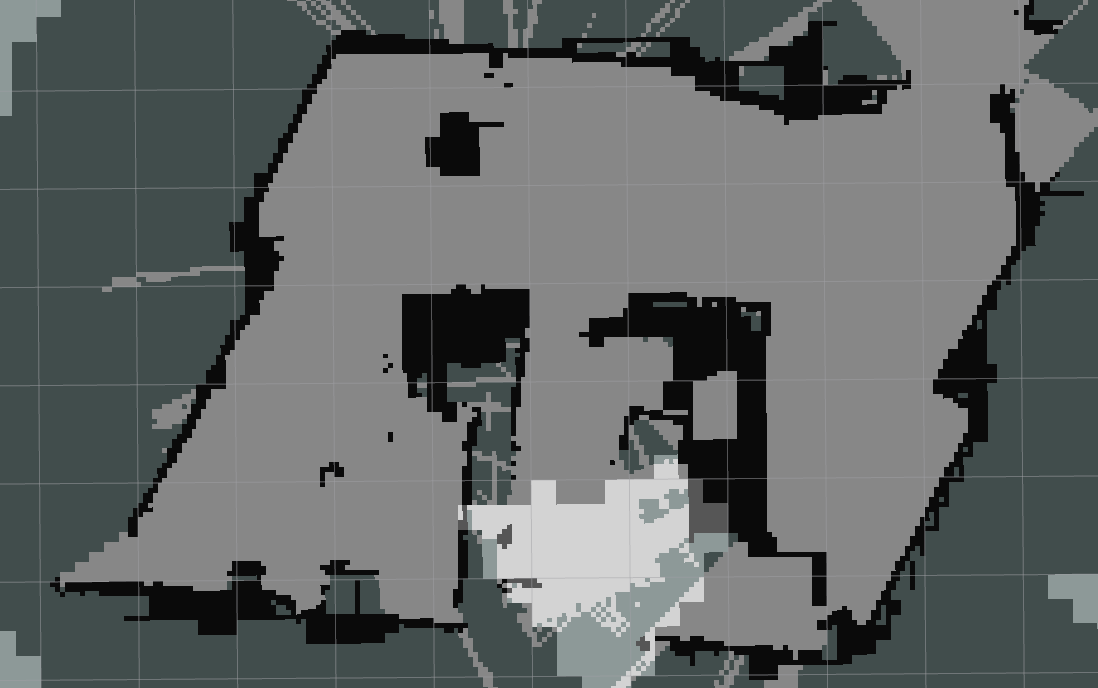
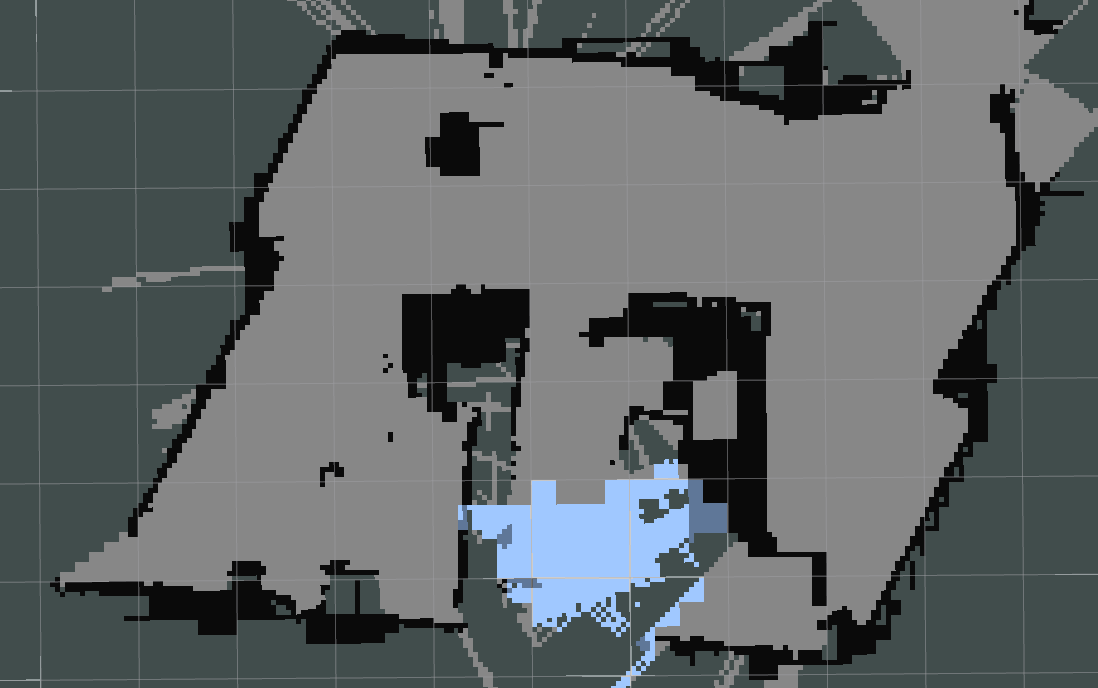
more corrections

diff --git a/Thesis/Concept/Mapping.tex b/Thesis/Concept/Mapping.tex
@@ -40,7 +40,7 @@ This section covers the creation of the Object-Map, which contains information a
 
 For every detectable object class an independent 3D grid map is created. Every cell in this grid map holds the probability of containing an object of the corresponding type given it is occupied. Mapping this conditional probability is beneficial, as the result of the object detection are sample points, which lie on object surfaces and therefore in occupied cells, assuming the depth measurements are accurate. The unconditional probability can be calculated using the 3D occupancy map. With this approach the costly ray-tracing, which is necessary to find the cells to be marked as free, has only to be done in the 3D mapping.
 
-Some assumptions were made to make this problem feasible. Independence of the grid cells and a static map are assumed. These are assumptions regularly made in similar problems, like occupancy grid mapping. Another assumption is the independence of different object types. This assumption implies that multiple objects can be located in a grid cell. This is reasonable if the resolution of the grid is not very high, which is the case. 
+Some assumptions were made to make this problem feasible. The independence of the grid cells and a static map are assumed. These are assumptions regularly made in similar problems, like occupancy grid mapping. Another assumption is the independence of different object types. This assumption implies that multiple objects can be located in a grid cell. This is reasonable if the resolution of the grid is not very high, which is the case. 
 
 Using those assumptions and Bayes' theorem the following formula can be derived: 
 \begin{multline}
@@ -80,7 +80,7 @@ as the probability of a cell containing an object is zero if the cell is not occ
 
 Assigning a single room type to a whole room is not sufficient for many rooms. On the one hand it is quiet common that different types of rooms, like a kitchen and a living room, are only partially or not at all separated by walls. On the other hand more accurate classes can often be found for areas in a room, like a pantry-like area in a kitchen. Therefore a Room-Type-Map is created for every room, which is a 2D grid map where each grid cell has its own probability distribution over the detectable room types. 
 
-The mapping procedure is similar to the creation of the  Object-Map and also assumes independent grid cells. Another assumption is that a cell is completely of one type. The update formula is: 
+The mapping procedure is similar to the creation of the  Object-Map and also assumes independent grid cells. Another assumption is that a cell is completely of one type. The formula of the probability update is: 
 \begin{multline}
  P(R_{c}|I_{1:t}, \mathbf{x}_{1:t}) = 
  \\ \frac{P(R_{c}|I_{t}, \mathbf{x}_{t})P(I_{t}| \mathbf{x}_{t})P(R_{c}|I_{1:t-1}, \mathbf{x}_{1:t-1})}
@@ -94,7 +94,7 @@ $P(R_{c}|I_{1:t}, \mathbf{x}_{1:t})$ is the probability distribution over the de
 \end{equation}
 as the probabilities have to sum to $1$. 
 
-The inverse sensor model $P(R_{c}|I_{t}, \mathbf{x}_{t})$ uses the result of the room type classification for the image $I_t$, $P(R_{I_{t} }|I_t)$. It has also to take into account which cells are visible. A simple approach is used, assuming all cells with a cell center within the view cone of the camera and within a certain range, are visible. This is illustrated in Figure \ref{fig:room_type_update}. A more complex estimation of the seen area is not used as it is difficult to estimate which cells are visible enough to contribute to the room type classification and how much each visible cell contributes to the classification. The used simplistic estimation of the visible cells, however, leads to invisible cells being updated. As these wrongly updated invisible cells are most of the time behind a wall and space outside the room is ignored in later stages of the system, the impact of wrongly updated cells should be small.
+The inverse sensor model $P(R_{c}|I_{t}, \mathbf{x}_{t})$ uses the result of the room type classification for the image $I_t$, $P(R_{I_{t} }|I_t)$. Also the visibility of the cells has to be taken into account. A simple approach is used, assuming all cells with a cell center within the view cone of the camera and within a certain range, are visible and receive the same update. This is illustrated in Figure \ref{fig:room_type_update}. A more complex mode is not used for two reasons. One reason is that no reasonable estimation can be made how much a visible area contributed to the classification result. The other one is that most of the cells wrongly updated using the simple model lie behind walls. The area behind a wall is usually outside of the room and therefore ignored in later stages of the system. 
 
 \begin{figure}[h]
 \centering
@@ -103,7 +103,7 @@ The inverse sensor model $P(R_{c}|I_{t}, \mathbf{x}_{t})$ uses the result of the
   \label{fig:room_type_update}
 \end{figure}
 
-Also to be considered is that not all cells visible in an image have to be of the same room type. The connection between classification result and room type probability of the cell based on the classified image is given by the following formula: 
+Also modeled in the inverse sensor model is the uncertainty of the classification result and the possibility of an image showing areas with different room types.  The connection between classification result and room type probability of the cell based on the classified image is given by the following formula: 
 \begin{equation}
 P(R_{c}|I_{t},\mathbf{x}_{t}) = \begin{cases}\sum_{R_{I_{t} }} P(R_{I_{t} }|I_t) \; P(R_{c}|R_{I_{t}})  & if \;cell \; c \; visible\\P(R_{c}) & else\end{cases}
 \end{equation}
@@ -112,7 +112,7 @@ $P(R_{c}|R_{I_{t}})$ is the probability of the room type of a cell $c$ given the
 
 \subsection{Doorway Mapping}
 
-The doorway mapping inserts and updates the poses of doorways in the semantic room map, using the result of the doorway detection. The result of the doorway detection is a set of doorway proposal poses in the coordinate frame of the robot. These proposal poses are transformed into the map frames of the particles. If no already found doorway is within a threshold distance to a proposal pose, a new doorway is added into the map. Otherwise the best fitting doorway, selected based on distance and orientation, is updated. This is show in figure \ref{fig:door_mapping}. A running average filter is used to estimate the true doorway pose. Due to the orientation constraint of doorway detections doorways are always facing out of the room.  
+The doorway mapping inserts and updates the poses of doorways in the semantic room map, using the result of the doorway detection. The result of the doorway detection is a set of doorway proposal poses in the coordinate frame of the robot. These proposal poses are transformed into the map frames of the particles. If no already found doorway is within a threshold distance to a proposal pose, a new doorway is added into the map. Otherwise the best fitting doorway, selected based on distance and orientation, is updated. This is shown in figure \ref{fig:door_mapping}. A running average filter is used to estimate the true doorway pose. Due to the orientation constraint of doorway detections, doorways are always facing out of the room.  
 \begin{figure}[h]
 \centering
   \includegraphics[width=0.5\textwidth]{figures/door_mapping.png}
@@ -122,7 +122,7 @@ The doorway mapping inserts and updates the poses of doorways in the semantic ro
 
 \subsection{Object-Probability-Map Estimation}
 
-This subsection describes how the information in the different types of maps of a room are put together to obtain an estimation of the object probability at all locations in the room. This includes the estimation of the room type in location only seen by the LIDAR, the estimation of the object probabilities based on the Room-Type-Map and the combination of those estimates with the Object-Map. The Object-Probability-Map contains no information not already present in another map, therefore this map is only created when needed and only for the best particle and the searched object type. 
+This subsection describes how all the information stored in the semantic room map is put together to get an 3D grid map containing the probabilities of an object of the searched type being in a grid cell. This includes the estimation of the room type in areas only seen by the LIDAR, the estimation of the object probabilities based on the Room-Type-Map and the combination of those estimates with the Object-Map. The Object-Probability-Map contains no information not already present in another map. Therefore this map is only created when requested and only for the searched object type and the currently most likely particle.
 
 \subsubsection{Estimation of room types in locations only seen by the LIDAR}
 
@@ -130,7 +130,7 @@ The LIDAR has a field of view of 240°, while the RGBD-camera has a horizontal f
 \begin{figure}[h]
 \centering
   \includegraphics[width=0.8\textwidth, clip]{figures/seen.png}
-  \caption[Areas only seen by LIDAR]{An explored room, light areas were only seen by the LIDAR}
+  \caption[Areas only seen by LIDAR]{An explored room, blueish areas were only seen by the LIDAR}
   \label{fig:seen}
 \end{figure}
 Those cells are considered as possible object locations and are therefore of interest. Cells neither seen by the camera nor the LIDAR are ignored. The room type distribution in those areas is estimated based on the average room type distribution $P_{avg}(R_c|I_{1:t}, \mathbf{x}_{1:t})$ in the room and the room type distribution  of the neighborhood. This is done using a two dimensional Gaussian kernel $G(\Delta x, \Delta y)$, as can be seen in the following formula:
@@ -141,7 +141,7 @@ Those cells are considered as possible object locations and are therefore of int
 
 \subsubsection{Object probabilities based on the room type map}
 
-As already described there exists a correlation between the room type of an area and the objects located in this area. This correlation is captured in the matrix K, which contains the probability of an object $o$ being in an image showing room type $r$. In a first step another matrix $K_{r,o}^*$ has to be calculated containing the probability of an object of type $o$ being in a grid cell of room type $r$. Assuming an object does not occupy multiple cells and $N_v$ cells being visible in an typical image of the dataset, the following formula is derived:
+As described in section \ref{Knowledge} there exists a correlation between the room type of an area and the objects located in this area. This correlation is captured in the matrix K, which contains the probability of an object $o$ being in an image showing room type $r$. In a first step another matrix $K_{r,o}^*$ has to be calculated containing the probability of an object of type $o$ being in a grid cell of room type $r$. Assuming an object does not occupy multiple cells and $N_v$ cells being visible in an typical image of the dataset, the following formula is derived: 
 \begin{equation}
  K_{r,o}^*= 1-(1-K_{r,o})^{\frac{1}{N_v}}
 \end{equation}
@@ -165,20 +165,20 @@ $Z$ is a normalization term, as $P(Obj_{c}^{o}|I_{1:t}, \mathbf{x}_{1:t}) + P(\n
  Z=P(O_{R,c}^{o}|I_{1:t}, \mathbf{x}_{1:t})P(O_{c}^{o}|I_{1:t}, \mathbf{x}_{1:t})+P(\neg O_{R,c}^{o}|I_{1:t}, \mathbf{x}_{1:t})P(\neg O_{c}^{o}|I_{1:t}, \mathbf{x}_{1:t})
 \end{equation}
 
-Some post-processing is done on the Object-Probability-Map. The probabilities of cells assumed to be outside the room are set to zero. These cells are in areas never seen by the RGBD-camera or the LIDAR or in areas behind doorways. Also probabilities in free space are set to zero. For every other cell a minimum probability is set, which is half value of the room type based probability. 
+Some post-processing is done on the Object-Probability-Map. The probabilities of cells assumed to be outside the room are set to zero. These cells are in areas never seen by the RGBD-camera or the LIDAR or in areas behind doorways. Also probabilities in free space are set to zero. For every other cell a minimum probability is set, which is half the value of the room type based probability. 
 
 \subsection{Topological Mapping and Room Transitioning}
 
 The topological map consists of nodes for every room, which contain the semantic room maps and condensed information for the high-level planning based on the semantic room maps. It also contains edges, where each edge corresponds to a doorway and holds information about which rooms are connected and the pose of the connecting doorway in both rooms. The topological mapping is responsible for the creation of this graphical structure, including the initialization of new room maps, the localization in the topological map and the handling of room transitions. 
 
-When a new doorway is found a new node is inserted into the graph with an edge connecting the node of the current room and the new node. An empty semantic room map is assigned to the new node. In this map the newly detected doorway is inserted to have a valid connection between the two rooms with corresponding doorway poses in both room maps. The doorway in the new room has the same coordinates as in the current room, but the opposite orientation to meet the convention of doorways always facing out of the room. In this work environments are assumed to have no loops, meaning there is only one way into a room given a starting room. Therefore the room behind a newly found doorway cannot be already discovered. 
+When a new doorway is found a new node is inserted into the graph with an edge connecting the node of the current room and the new node. An empty semantic room map is assigned to the new node. In this map the newly detected doorway is inserted to have a valid connection between the two rooms with corresponding doorway poses in both room maps. The doorway in the new room has the same coordinates as in the current room, but the opposite orientation to meet the convention of doorways always facing out of the room. In this work environments are assumed to have no loops. Therefore the room behind a newly found doorway cannot be already discovered. 
 
-When a doorway is passed the semantic room map has to be switched. A doorway is passed if the robot is more than a threshold distance in front of the doorway and therefore in the next room. The threshold is marked with a blue line in the left image in Figure \ref{fig:doors}. The threshold is important to achieve a hysteresis and avoid unstable behavior at the doorway. In a first step the mapping in the old room is stopped. Then the mapping in the new room is set up. If the room was never visited before, the specified number of particles are generated with empty maps. Otherwise the best particle, including its maps, is multiplied. In a next step the particles are set to meaningful poses. Therefore the poses of the particles in the old room's particle filter are transformed into the new room's coordinate frame with
+When a doorway is passed the semantic room map of the new room has to be activate and the old one deactivated. A doorway is passed if the robot is more than a threshold distance in front of the doorway and therefore in the next room. The threshold is marked with a blue line in the left image in Figure \ref{fig:doors}. The threshold is important to achieve a hysteresis and avoid unstable behavior at the doorway. In a first step the mapping in the old room is stopped. Then the mapping in the new room is set up. If the room was never visited before, the specified number of particles are generated with empty maps. Otherwise the best particle, including its maps, is multiplied. In a next step the poses of the new room's particles are set to the pose of the best particle of the old room. This is sufficient as within a doorway the localization is very accurate. The pose has to be transformed into the new room's coordinate frame with
 \begin{equation}
  \mathbf{P_{new}}=P_{D_{new}}T_{flip}P_{D_{old}}^{-1}\mathbf{P_{old}}
 \end{equation}
 
-$\mathbf{P_{old}}$ and $\mathbf{P_{new}}$ are the particle pose in the old and new room coordinate frames, $P_{D_{old}}$ and $P_{D_{new}}$ are the poses of the doorway in the old and new room and $T_{flip}$ is a 180° rotation matrix. The rotation is necessary as the doorway poses have an opposite orientation. After that all particles except the best one in the old rooms particle filter are discarded, as those particles are not meaningful when the robot returns to the room. In the last step the mapping in the new room is started. Figure \ref{fig:doors} shows the map before and after a doorway passing. The maps contain also space in the other room. This is necessary for navigation through the doorway. In the search planning space behind a doorway is ignored.
+$\mathbf{P_{old}}$ and $\mathbf{P_{new}}$ are the particle pose in the old and new room coordinate frames, $P_{D_{old}}$ and $P_{D_{new}}$ are the poses of the doorway in the old and new room and $T_{flip}$ is a 180° rotation matrix. The rotation is necessary as the doorway poses have an opposite orientation. After that all particles except the best one in the old rooms particle filter are discarded, as those particles are not meaningful when the robot returns to the room. In the last step the mapping in the new room is started. Figure \ref{fig:doors} shows the map before and after a doorway passing. The maps contain also space in the other room. This is necessary for safe navigation through the doorway. However, space behind doorways is ignored in all the calculations and in the search planning.
 
 \begin{figure}[h]
 \centering
@@ -191,7 +191,7 @@ $\mathbf{P_{old}}$ and $\mathbf{P_{new}}$ are the particle pose in the old and n
 
 \subsection{High-Level Room Information Generation}
 
-For the high level planner to work the information in the semantic room maps has to be condensed into easier to used room attributes. These are
+The information in the semantic room maps has to be condensed into a compact form containing only the information necessary for the high-level planning. These high-level attributes of a room are
 \begin{itemize}
  \item the total probability of an object of the searched object type being in the room
  \item the time needed to completely search the room
@@ -200,7 +200,7 @@ For the high level planner to work the information in the semantic room maps has
  \item the time to leave the room for all doorways
 \end{itemize}
 
-The time needed for exploration is ignored, as it is hard to estimate and this way an incentive for exploration over searching in unlikely rooms is added. Another incentive for exploration is given by setting the object probabilities of unvisited rooms to very high values and the search times to very low values. This is done to encourage the robot to peek into rooms. Peeking into a room is a desirable behavior as it takes relatively little time and gives the robot much more information about the environment. 
+The time necessary for exploration is ignored, as the exploration is difficult to model. On the one hand it takes time, but on the other hand some objects might be found during the process and information about other rooms and likely object locations is gathered. Ignoring the time for exploration seems to be a good idea. Another used idea concerning exploration is setting the high-level attributes of unvisited rooms to very optimistic values. This is done to encourage the robot to peek into rooms. Peeking into a room is a desirable behavior as it takes relatively little time and gives the robot much more information about the environment. 
 
 \subsubsection{Total object probability in a room r $\mathbf{P_r(o)}$}
 
@@ -217,7 +217,7 @@ $N_{room}$ is a basic estimate of the size of an unexplored room and $N_{min}$ i
 \begin{equation}
  P(Obj_{unex}^o) = \sum_{R_{avg}}P(R_{avg})P(Obj_{unex}^o|R_{avg}) = \sum_{R_{avg}}P(R_{avg})K_{R_{avg},Obj_{unex}^o}^*
 \end{equation}
-The third type of cells are technically not within the room. Those are cells in so far undiscovered adjacent rooms. To avoid the addition of uncertain rooms into the topological map those are considered to be part of another room during probability calculation. The expected number of those cells $N_{undis}$ is estimated with:
+The third type of cells are technically not within the room. Those are cells in undiscovered adjacent rooms. To avoid the addition of uncertain rooms into the topological map those are considered to be part of another room during probability calculation. The expected number of those cells $N_{undis}$ is estimated with:
 \begin{equation}
  N_{undis}=\begin{cases} 0 & if \;room\; explored \\ max\Big(\sum_{R_{avg}}P(R_{avg})N_{adj}(R_{avg})-N_{r,dis},0\Big)N_r & else \end{cases}
 \end{equation} 

diff --git a/Thesis/Concept/Knowledge.tex b/Thesis/Concept/Knowledge.tex
@@ -1,4 +1,4 @@
-\section{Commonsense Knowledge}
+\section{Commonsense Knowledge} \label{Knowledge}
 
 An inevitable prerequisite for intelligent behavior is knowledge. As a learning system is out of the scope of this thesis, the knowledge useful for the robot has to be chosen and prepared. In this work commonsense knowledge about indoor environments, rooms and objects is important. Some knowledge, like the concept of a room, is implicitly used through the design of the system. Other knowledge, like the visual appearance of objects and room types are coded in the weights of the CNNs, which are trained on thousands of labeled images. Many already trained CNNs are available and ready to use. 
 